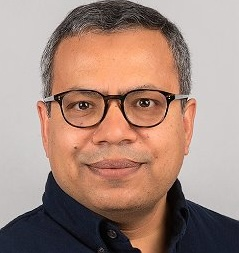
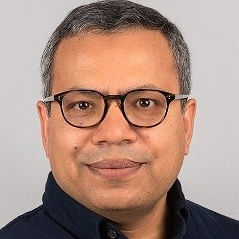
revise style and images, add new speaker

diff --git a/index.md b/index.md
@@ -21,26 +21,97 @@ and underexplored direction in software engineering.
 
 
 ### Organizing Committee
-<div align="center" style="display: flex; justify-content: center; gap: 20px;">
+<!-- <div align="center" style="display: flex; justify-content: center; gap: 10px;">
 
   <figure style="text-align: center;">
-    <img src="assets/img/mali.jpg" alt="mali" width="200">
+    <img src="assets/img/mali.jpg" alt="mali" style="width:30%;">
     <figcaption>Maliheh Izadi, TU Delft</figcaption>
   </figure>
 
   <figure style="text-align: center;">
-    <img src="assets/img/michael.jpg" alt="michael" width="200">
+    <img src="assets/img/michael.jpg" alt="michael" style="width:30%;">
     <figcaption>Michael Pradel, Stuttgart</figcaption>
   </figure>
 
   <figure style="text-align: center;">
-    <img src="assets/img/satish.jpg" alt="satish" width="200">
+    <img src="assets/img/satish.jpg" alt="satish" style="width:30%;">
     <figcaption>Satish Chandra, Google</figcaption>
+  </figure>
+</div> -->
+<div style="display: flex; flex-direction: row; flex-wrap: nowrap; width: 100%; text-align: center">
+
+  <figure style="width: 33.33%; padding: 10px; box-sizing: border-box; margin: 0;">
+    <img src="assets/img/mali.jpg" alt="x" style="width: 100%; height: auto; display: block; margin: 0 auto;">
+    <figcaption style="margin-top: 10px; padding: 10px; border: 1px solid #ccc; background-color: #f9f9f9; font-weight: bold;">
+      <a href="https://malihehizadi.github.io/">Maliheh Izadi</a>, TU Delft
+    </figcaption>
+  </figure>
+
+  <figure style="width: 33.33%; padding: 10px; box-sizing: border-box; margin: 0;">
+    <img src="assets/img/michael.jpg" alt="x" style="width: 100%; height: auto; display: block; margin: 0 auto;">
+    <figcaption style="margin-top: 10px; padding: 10px; border: 1px solid #ccc; background-color: #f9f9f9; left; font-weight: bold;">
+      <a href="https://software-lab.org/people/Michael_Pradel.html">Michael Pradel</a>, CISPA
+    </figcaption>
+  </figure>
+
+  <figure style="width: 33.33%; padding: 10px; box-sizing: border-box; margin: 0;">
+    <img src="assets/img/satish.jpg" alt="x" style="width: 100%; height: auto; display: block; margin: 0 auto;">
+    <figcaption style="margin-top: 10px; padding: 10px; border: 1px solid #ccc; background-color: #f9f9f9; font-weight: bold;">
+      <a href="https://sites.google.com/site/schandraacmorg/">Satish Chandra</a>, Google
+    </figcaption>
   </figure>
 
 </div>
 
 
+### Speakers
+We are excited to welcome distinguished speakers who will share their expertise on the role of agents in advancing software engineering, offering insights from both research and practice.
+
+<strong><a href="https://chao-peng.github.io/">Dr. Chao Peng</a></strong> is a Principal Research Scientist at ByteDance. He received his PhD degree from The University of Edinburgh. At ByteDance, he leads the Trae Research team, where they conduct research on AI agents for software engineering including the application and evaluation of AI agents, and training LLMs for agents. He is also responsible for academic development and university collaboration. Dr. Chao Peng has published research and industry papers at premier venues including ICSE, FSE, ASE, ACL and serves as a PC member for FSE and ASE.
+
+<div style="display: flex; flex-direction: row; flex-wrap: nowrap; width: 100%;">
+
+  <figure style="width: 50%; padding: 10px; box-sizing: border-box; margin: 0;">
+    <img src="assets/img/chao.jpg" alt="x" style="width: 100%; height: auto; display: block; margin: 0 auto;  ">
+    <figcaption style="margin-top: 10px; padding: 10px; border: 1px solid #ccc; background-color: #f9f9f9; font-weight: bold;">
+      <a href="https://chao-peng.github.io/">Chao Peng</a>, ByteDance
+    </figcaption>
+  </figure>
+
+  <!-- <figure style="width: 50%; padding: 10px; box-sizing: border-box; margin: 0;">
+    <img src="assets/img/mali.jpg" alt="x" style="width: 100%; height: auto; display: block; margin: 0 auto; border-radius: 50%; ">
+    <figcaption style="margin-top: 10px; padding: 10px; border: 1px solid #ccc; background-color: #f9f9f9; font-weight: bold;">
+      add caption
+    </figcaption>
+  </figure> -->
+
+</div>
+
+
+### Support Team
+<div style="display: flex; flex-direction: row; flex-wrap: nowrap; width: 100%; text-align: center">
+
+  <figure style="width: 33.33%; padding: 10px; box-sizing: border-box; margin: 0;">
+    <img src="assets/img/mehdi.jpg" alt="x" style="width: 100%; height: auto; display: block; margin: 0 auto;">
+    <figcaption style="margin-top: 10px; padding: 10px; border: 1px solid #ccc; background-color: #f9f9f9; font-weight: bold;">
+      <a href="https://ashkboos.github.io/MyWebsite/">Mehdi Keshani</a><br/>Proceeding Chair
+    </figcaption>
+  </figure>
+
+  <figure style="width: 33.33%; padding: 10px; box-sizing: border-box; margin: 0;">
+    <img src="assets/img/razvan.webp" alt="x" style="width: 100%; height: auto; display: block; margin: 0 auto;">
+    <figcaption style="margin-top: 10px; padding: 10px; border: 1px solid #ccc; background-color: #f9f9f9; font-weight: bold;">
+      <a href="https://razvain.github.io/">Razvan Popescu</a><br/>Web Chair
+    </figcaption>
+  </figure>
+
+  <figure style="width: 33.33%; padding: 10px; box-sizing: border-box; margin: 0;">
+    <img src="assets/img/roham.webp" alt="x" style="width: 100%; height: auto; display: block; margin: 0 auto;">
+    <figcaption style="margin-top: 10px; padding: 10px; border: 1px solid #ccc; background-color: #f9f9f9; font-weight: bold;">
+      <a href="http://rohamkoohestani.com/">Roham Koohestani</a><br/>Web Chair
+    </figcaption>
+  </figure>
+</div>
 
 ### Target Audience
 - Software Engineering (SE): researchers and practitioners interested in AI-driven development, automation, program analysis, testing, maintenance, and DevOps. 
@@ -61,10 +132,10 @@ Types of submissions include **full papers, short papers, and late-breaking talk
 
 * **Long papers** = 8 pages (inclduing references) in IEEEtran two-column formatting
 * **Short papers** = 4 pages (inclduing references) in IEEEtran two-column formatting
-* **Talk-only**: Text-only abstract, without a formal publication
+* **Talk-only**: Text-only abstract, without a formal publication (no proceedings)
 
 - **Paper submission**: ~~Aug 22nd, 2025~~ **Aug 26th, 2025, 23:59 AOE**
-- **Notification Date**: Sep 25th, 2025, 23:59 AOE
+- **Notification Date**: Sep 26th, 2025, 23:59 AOE
 - **Camera-ready deadline**: Oct 5th, 2025, 23:59 AOE
 
 ### Topics of Interest
@@ -115,24 +186,7 @@ the field.
 | [Yiling Lou](https://yilinglou.github.io/) | Fudan University | China |
 | [Ziyou Li](http://ziyou.li) | Delft University of Technology |  Netherlands |
 
-### Support Team
-<div align="center" style="display: flex; justify-content: center; gap: 20px;">
 
-  <figure style="text-align: center;">
-    <img src="assets/img/mehdi.jpeg" alt="mehdi" width="200">
-    <figcaption>Mehdi Keshani, Proceeding Chair</figcaption>
-  </figure>
-
-  <figure style="text-align: center;">
-    <img src="assets/img/razvan.webp" alt="razvan" width="200">
-    <figcaption>Razvan Popescu, Web Chair</figcaption>
-  </figure>
-
-  <figure style="text-align: center;">
-    <img src="assets/img/roham.webp" alt="roham" width="200">
-    <figcaption>Roham Koohestani, Web Chair</figcaption>
-  </figure>
-</div>
 
 ### Publication of Proceedings
 We intend for accepted papers to be published in the ASE 2025 workshop proceedings. ASE workshop track home: [https://conf.researchr.org/track/ase-2025/ase-2025-workshops](https://conf.researchr.org/track/ase-2025/ase-2025-workshops).
